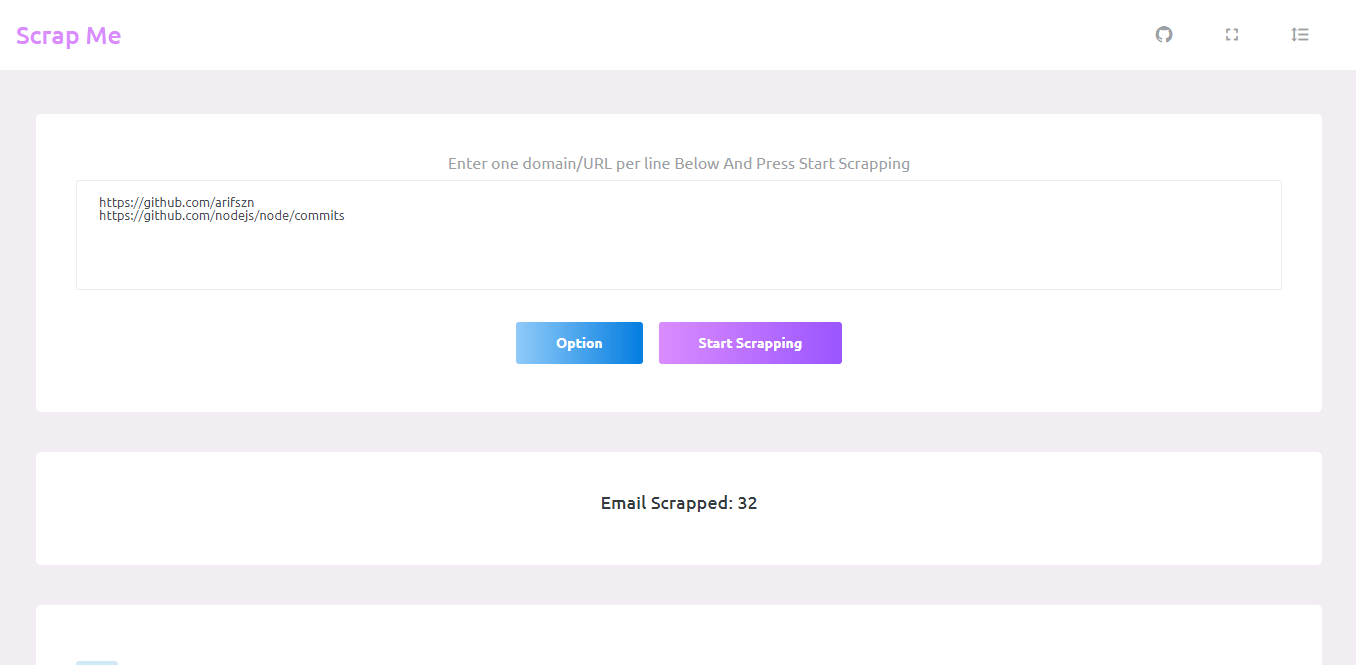
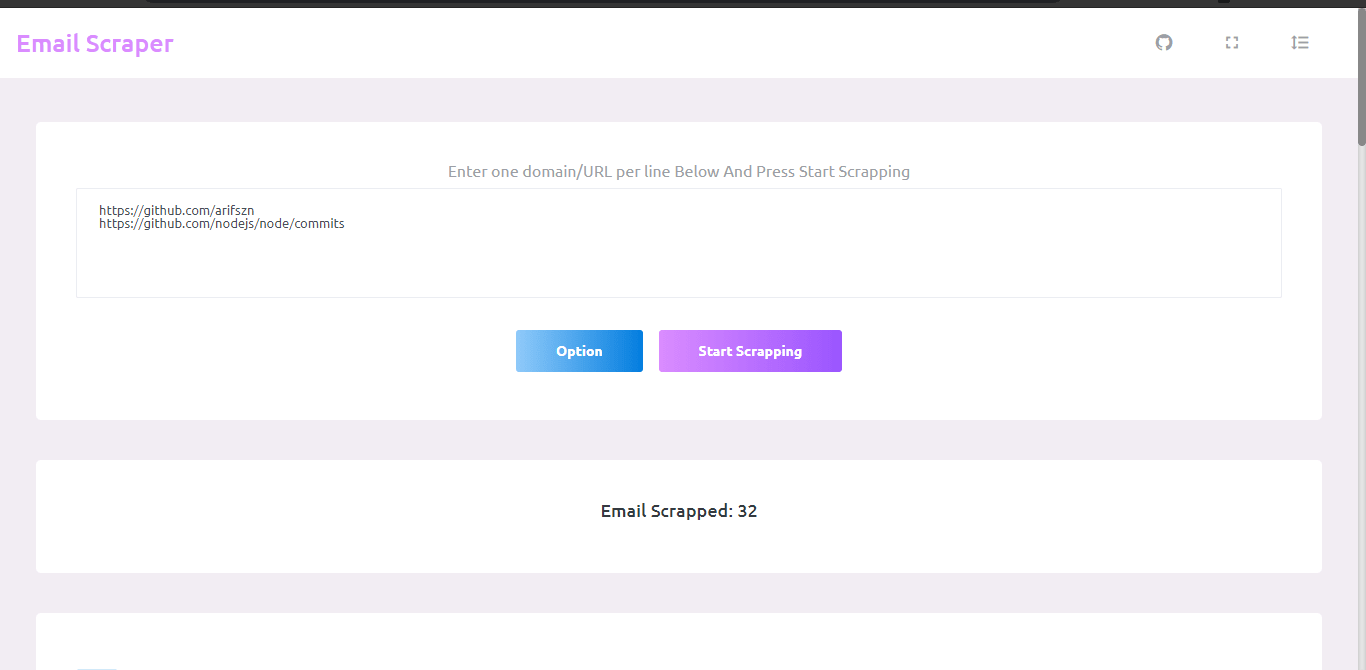
title updated

diff --git a/client/build/static/js/main.a49d2f99.chunk.js b/client/build/static/js/main.a49d2f99.chunk.js
@@ -1,0 +1,2 @@
+(this.webpackJsonpclient=this.webpackJsonpclient||[]).push([[0],{106:function(e,a,t){"use strict";t.r(a);var n=t(0),l=t.n(n),c=t(7),r=t.n(c),s=t(16),m=t(4),o=(t(69),t(37)),i=t.n(o),d=t(56),u=t(15),p=(t(42),function(){return l.a.createElement(l.a.Fragment,null,l.a.createElement("nav",{className:"navbar default-layout-navbar col-lg-12 col-12 p-0 fixed-top d-flex flex-row"},l.a.createElement("div",{className:"text-center navbar-brand-wrapper d-flex align-items-center justify-content-center"},l.a.createElement(s.b,{className:"navbar-brand brand-logo",to:"/"},l.a.createElement("h3",null,"Email scraper")),l.a.createElement(s.b,{className:"navbar-brand",to:"/"},l.a.createElement("h3",{className:"px-3 my-auto"},"Email Scraper"))),l.a.createElement("div",{className:"navbar-menu-wrapper d-flex align-items-stretch"},l.a.createElement("ul",{className:"navbar-nav navbar-nav-right"},l.a.createElement("li",{className:"nav-item "},l.a.createElement("a",{className:"nav-link",href:"https://github.com/arifszn/email-scraper",target:"_blank"},l.a.createElement("i",{className:"mdi mdi-github-circle"}))),l.a.createElement("li",{className:"nav-item full-screen-link"},l.a.createElement("a",{className:"nav-link"},l.a.createElement("i",{className:"mdi mdi-fullscreen",id:"fullscreen-button"}))),l.a.createElement("li",{className:"nav-item "},l.a.createElement("a",{className:"nav-link",href:"#"},l.a.createElement("i",{className:"mdi mdi-format-line-spacing"})))))))}),E=t(58),h=t.n(E),g={serverURL:window.location.origin,showNotification:function(){var e=arguments.length>0&&void 0!==arguments[0]?arguments[0]:"Something went wrong",a=arguments.length>1&&void 0!==arguments[1]?arguments[1]:"error";h.a.show({title:"",message:e,messageSize:12,position:"topRight",theme:"dark",pauseOnHover:!0,timeout:5e3,progressBarColor:"success"===a?"#00ffb8":"#ffafb4",color:"#565c70",messageColor:"success"===a?"#00ffb8":"#ffafb4",icon:"success"===a?"mdi mdi-check":"mdi mdi-alert-circle-outline"})},textEllipsis:function(e,a){var t=arguments.length>2&&void 0!==arguments[2]?arguments[2]:"...";return null==a&&(a=100),e.length>a?e.substring(0,a-t.length)+t:e}},v=t(59),f=t.n(v),b=t(60),N=t(40),w=t(61),x=t.n(w),y=t(17),S=t(28),k=function(e){return Object(n.useEffect)((function(){}),[]),l.a.createElement(l.a.Fragment,null,l.a.createElement(S.a,{show:!0,onHide:e.handleClose},l.a.createElement(S.a.Header,{closeButton:!0},l.a.createElement(S.a.Title,null,"Search Options")),l.a.createElement(S.a.Body,null,l.a.createElement("div",{className:"col-md-12 grid-margin"},l.a.createElement("div",{className:"card"},l.a.createElement("div",{className:"mx-0 row"},l.a.createElement("div",{className:"col-md-12"},l.a.createElement("div",{className:"form-group",style:{marginBottom:"1rem"}},l.a.createElement("div",{className:"form-check"},l.a.createElement("label",{className:"form-check-label"},l.a.createElement("input",{type:"checkbox",className:"form-check-input",checked:e.options.processRootUrlOnly,onClick:function(a){var t=!e.options.processRootUrlOnly;e.setOptions(Object(y.a)(Object(y.a)({},e.options),{},{processRootUrlOnly:t})),localStorage.setItem("processRootUrlOnly",t)}})," Process Root Url Only ",l.a.createElement("i",{className:"input-helper"})," ",l.a.createElement("small",{className:"text-muted"},"| ",e.options.processRootUrlOnly?"www.example.com":"www.example.com/xyz"," |"))))))),l.a.createElement("div",{className:"card mt-2"},l.a.createElement("div",{className:"mx-0 row"},l.a.createElement("div",{className:"col-md-12"},l.a.createElement("div",{className:"form-group",style:{marginBottom:"1rem"}},l.a.createElement("div",{className:"form-check"},l.a.createElement("label",{class:"form-check-label"},l.a.createElement("input",{type:"radio",class:"form-check-input",checked:"deep"===e.options.searchStrength,name:"searchStrength",value:"deep",onClick:function(a){e.setOptions(Object(y.a)(Object(y.a)({},e.options),{},{searchStrength:a.target.value})),localStorage.setItem("searchStrength","deep")}})," Deep Search ",l.a.createElement("i",{class:"input-helper"}))),l.a.createElement("div",{className:"form-check"},l.a.createElement("label",{class:"form-check-label"},l.a.createElement("input",{type:"radio",class:"form-check-input",checked:"quick"===e.options.searchStrength,name:"searchStrength",value:"quick",onClick:function(a){e.setOptions(Object(y.a)(Object(y.a)({},e.options),{},{searchStrength:a.target.value})),localStorage.setItem("searchStrength","quick")}})," Quick Search ",l.a.createElement("i",{class:"input-helper"})))))))))))},O=t(63),j=t(62),R=function(e){var a=Object(n.useState)(""),t=Object(u.a)(a,2),c=t[0],r=t[1],s=Object(n.useState)(""),m=Object(u.a)(s,2),o=(m[0],m[1]),E=Object(n.useState)(!1),h=Object(u.a)(E,2),v=h[0],w=h[1],y=Object(n.useState)(!1),S=Object(u.a)(y,2),R=S[0],C=S[1],U=Object(n.useState)(!0),B=Object(u.a)(U,2),I=B[0],F=B[1],q=Object(n.useState)([]),z=Object(u.a)(q,2),A=z[0],H=z[1],T=Object(n.useState)({processRootUrlOnly:"true"===localStorage.getItem("processRootUrlOnly"),searchStrength:localStorage.getItem("searchStrength")?localStorage.getItem("searchStrength"):"deep"}),J=Object(u.a)(T,2),L=J[0],P=J[1],W=function(){C(!R)},D=function(){var e=Object(d.a)(i.a.mark((function e(){var a,t;return i.a.wrap((function(e){for(;;)switch(e.prev=e.next){case 0:if(""===c){e.next=17;break}return w(!0),e.prev=2,e.next=5,f.a.post("/api/scrap",{site:c,processRootUrlOnly:L.processRootUrlOnly,searchStrength:L.searchStrength});case 5:a=e.sent,w(!1),200!==a.data.status?g.showNotification(void 0!==typeof a.data.data.result?a.data.data.result:"Server error","error"):200===a.data.status&&(F(!1),t=[],a.data.result.forEach((function(e,a){e.emails.length&&e.emails.forEach((function(a,n){var l={email:a.replace("mailto:",""),site:e.site};t.push(l)}))})),H(t)),e.next=15;break;case 10:e.prev=10,e.t0=e.catch(2),w(!1),console.log(e.t0),g.showNotification("Server error","error");case 15:e.next=18;break;case 17:g.showNotification("Nothing to scrap","error");case 18:case"end":return e.stop()}}),e,null,[[2,10]])})));return function(){return e.apply(this,arguments)}}(),Q=function(e){var a=document.createRange();a.selectNodeContents(e);var t=window.getSelection();t.removeAllRanges(),t.addRange(a)};return l.a.createElement(l.a.Fragment,null,l.a.createElement("div",{className:"container-scroller"},l.a.createElement(p,null),l.a.createElement("div",{className:"container-fluid page-body-wrapper"},l.a.createElement("div",{className:"main-panel"},l.a.createElement("div",{className:"content-wrapper"},l.a.createElement("div",{className:"row"},l.a.createElement("div",{className:"col-md-12 grid-margin stretch-card"},l.a.createElement("div",{className:"card"},l.a.createElement(x.a,{active:v,spinner:!0,text:"Scrapping..."},l.a.createElement("div",{className:"card-body text-center"},l.a.createElement("div",{className:"forms-sample"},l.a.createElement("label",{className:"text-muted"},"Enter one domain/URL per line Below And Press Start Scrapping"),l.a.createElement("div",{className:"form-group"},l.a.createElement("textarea",{id:"site",name:"site",onChange:function(e){r(e.target.value)},value:c,className:"form-control",placeholder:"example.com \nexample.com \nexample.com",rows:"6"})),l.a.createElement("button",{type:"button",disabled:v,className:"btn btn-gradient-info m-2",onClick:function(){W()}},"Option"),l.a.createElement("button",{type:"button",disabled:v,className:"btn btn-gradient-primary m-2",onClick:D},"Start Scrapping",v?"...":"")))))),l.a.createElement(N.If,{condition:!I},l.a.createElement(l.a.Fragment,null,l.a.createElement("div",{className:"col-md-12 grid-margin stretch-card"},l.a.createElement("div",{className:"card"},l.a.createElement("div",{className:"card-body text-center"},l.a.createElement("h4",{className:"card-title"},"Email Scrapped: ",A.length)))),l.a.createElement("div",{className:"col-md-12 grid-margin stretch-card"},l.a.createElement("div",{className:"card"},l.a.createElement("div",{className:"card-body"},l.a.createElement("div",{className:"pt-3 pb-3"},l.a.createElement("div",{className:"d-flex flex-column flex-md-row justify-content-md-between"},l.a.createElement("div",{className:"d-flex flex-row"},l.a.createElement(O.a,{placement:"top",overlay:l.a.createElement(j.a,null,"Copy All")},l.a.createElement("button",{disabled:!A.length,id:"copy-all-button",className:"btn btn-inverse-info btn-icon",onClick:function(){return function(){var e=document.querySelector("#scrapped-email-table");Q(e),document.execCommand("copy")}()}},l.a.createElement("i",{className:"mdi mdi-content-copy"})))))),l.a.createElement("div",{className:"table-responsive"},l.a.createElement("table",{id:"scrapped-email-table",className:"table table-striped scrapped-email-table"},l.a.createElement("thead",null,l.a.createElement("tr",null,l.a.createElement("th",null," # "),l.a.createElement("th",null," Email "),l.a.createElement("th",null," Site "),l.a.createElement("th",{style:{width:"160px"}}," "))),l.a.createElement("tbody",null,A.length?A.map((function(e,a){return l.a.createElement(l.a.Fragment,{key:a},l.a.createElement("tr",null,l.a.createElement("td",null," ",a+1," "),l.a.createElement("td",null,l.a.createElement("code",null,g.textEllipsis(e.email,100))," "),l.a.createElement("td",null," ",g.textEllipsis(e.site,100)," "),l.a.createElement("td",null,l.a.createElement(b.CopyToClipboard,{text:e.email,onCopy:function(){return a=e.email,void o(a);var a}},l.a.createElement("button",{className:"btn btn-rounded btn-icon btn-success"},l.a.createElement("i",{className:"mdi mdi-content-paste"}))))))})):l.a.createElement("tr",null,l.a.createElement("td",{colSpan:4,className:"text-center text-muted"},"No Email Found"))))))))))))))),l.a.createElement(N.If,{condition:R},l.a.createElement(k,{handleClose:W,options:L,setOptions:P})))},C=function(){return l.a.createElement(l.a.Fragment,null,l.a.createElement("div",{className:"container-scroller"},l.a.createElement("div",{className:"container-fluid page-body-wrapper full-page-wrapper"},l.a.createElement("div",{className:"content-wrapper d-flex align-items-center text-center error-page bg-primary"},l.a.createElement("div",{className:"row flex-grow"},l.a.createElement("div",{className:"col-lg-7 mx-auto text-white"},l.a.createElement("div",{className:"row align-items-center d-flex flex-row"},l.a.createElement("div",{className:"col-lg-6 text-lg-right pr-lg-4"},l.a.createElement("h1",{className:"display-1 mb-0"},"404")),l.a.createElement("div",{className:"col-lg-6 error-page-divider text-lg-left pl-lg-4"},l.a.createElement("h2",null,"SORRY!"),l.a.createElement("h3",{className:"font-weight-light"},"The page you\u2019re looking for was not found."))),l.a.createElement("div",{className:"row mt-5"},l.a.createElement("div",{className:"col-12 text-center mt-xl-2"},l.a.createElement(s.b,{className:"text-white font-weight-medium",to:"/"},"Back to home")))))))))};var U=function(){return l.a.createElement(s.a,null,l.a.createElement(m.c,null,l.a.createElement(m.a,{exact:!0,path:"/",component:R}),l.a.createElement(m.a,{component:C})))};Boolean("localhost"===window.location.hostname||"[::1]"===window.location.hostname||window.location.hostname.match(/^127(?:\.(?:25[0-5]|2[0-4][0-9]|[01]?[0-9][0-9]?)){3}$/));r.a.render(l.a.createElement(l.a.Fragment,null,l.a.createElement(U,null)),document.getElementById("root")),"serviceWorker"in navigator&&navigator.serviceWorker.ready.then((function(e){e.unregister()})).catch((function(e){console.error(e.message)}))},64:function(e,a,t){e.exports=t(106)},69:function(e,a,t){}},[[64,1,2]]]);
+//# sourceMappingURL=main.a49d2f99.chunk.js.map

diff --git a/client/build/index.html b/client/build/index.html
@@ -1,1 +1,1 @@
-<!doctype html><html lang="en"><head><meta charset="utf-8"/><link rel="icon" href="/favicon.ico"/><meta name="viewport" content="width=device-width,initial-scale=1"/><meta name="description" content="Scarp Me"/><link rel="apple-touch-icon" href="./logo.png"/><link rel="manifest" href="/manifest.json"/><link rel="stylesheet" href="/assets/vendors/mdi/css/materialdesignicons.min.css"><link rel="stylesheet" href="/assets/vendors/css/vendor.bundle.base.css"><link rel="stylesheet" href="/assets/css/style.css"><title>Scarp Me</title><link href="/static/css/2.3513b61d.chunk.css" rel="stylesheet"><link href="/static/css/main.30480664.chunk.css" rel="stylesheet"></head><body class="sidebar-icon-only"><noscript>You need to enable JavaScript to run this app.</noscript><div id="root"></div><script src="/assets/vendors/js/vendor.bundle.base.js"></script><script src="/assets/vendors/chart.js/Chart.min.js"></script><script src="/assets/js/off-canvas.js"></script><script src="/assets/js/hoverable-collapse.js"></script><script src="/assets/js/misc.js"></script><script>!function(e){function t(t){for(var n,l,i=t[0],f=t[1],a=t[2],p=0,s=[];p<i.length;p++)l=i[p],Object.prototype.hasOwnProperty.call(o,l)&&o[l]&&s.push(o[l][0]),o[l]=0;for(n in f)Object.prototype.hasOwnProperty.call(f,n)&&(e[n]=f[n]);for(c&&c(t);s.length;)s.shift()();return u.push.apply(u,a||[]),r()}function r(){for(var e,t=0;t<u.length;t++){for(var r=u[t],n=!0,i=1;i<r.length;i++){var f=r[i];0!==o[f]&&(n=!1)}n&&(u.splice(t--,1),e=l(l.s=r[0]))}return e}var n={},o={1:0},u=[];function l(t){if(n[t])return n[t].exports;var r=n[t]={i:t,l:!1,exports:{}};return e[t].call(r.exports,r,r.exports,l),r.l=!0,r.exports}l.m=e,l.c=n,l.d=function(e,t,r){l.o(e,t)||Object.defineProperty(e,t,{enumerable:!0,get:r})},l.r=function(e){"undefined"!=typeof Symbol&&Symbol.toStringTag&&Object.defineProperty(e,Symbol.toStringTag,{value:"Module"}),Object.defineProperty(e,"__esModule",{value:!0})},l.t=function(e,t){if(1&t&&(e=l(e)),8&t)return e;if(4&t&&"object"==typeof e&&e&&e.__esModule)return e;var r=Object.create(null);if(l.r(r),Object.defineProperty(r,"default",{enumerable:!0,value:e}),2&t&&"string"!=typeof e)for(var n in e)l.d(r,n,function(t){return e[t]}.bind(null,n));return r},l.n=function(e){var t=e&&e.__esModule?function(){return e.default}:function(){return e};return l.d(t,"a",t),t},l.o=function(e,t){return Object.prototype.hasOwnProperty.call(e,t)},l.p="/";var i=this.webpackJsonpclient=this.webpackJsonpclient||[],f=i.push.bind(i);i.push=t,i=i.slice();for(var a=0;a<i.length;a++)t(i[a]);var c=f;r()}([])</script><script src="/static/js/2.1a3c4498.chunk.js"></script><script src="/static/js/main.ac60e375.chunk.js"></script></body></html>
+<!doctype html><html lang="en"><head><meta charset="utf-8"/><link rel="icon" href="/favicon.ico"/><meta name="viewport" content="width=device-width,initial-scale=1"/><meta name="description" content="Email scraper"/><link rel="apple-touch-icon" href="./logo.png"/><link rel="manifest" href="/manifest.json"/><link rel="stylesheet" href="/assets/vendors/mdi/css/materialdesignicons.min.css"><link rel="stylesheet" href="/assets/vendors/css/vendor.bundle.base.css"><link rel="stylesheet" href="/assets/css/style.css"><title>Email Scraper</title><link href="/static/css/2.3513b61d.chunk.css" rel="stylesheet"><link href="/static/css/main.30480664.chunk.css" rel="stylesheet"></head><body class="sidebar-icon-only"><noscript>You need to enable JavaScript to run this app.</noscript><div id="root"></div><script src="/assets/vendors/js/vendor.bundle.base.js"></script><script src="/assets/vendors/chart.js/Chart.min.js"></script><script src="/assets/js/off-canvas.js"></script><script src="/assets/js/hoverable-collapse.js"></script><script src="/assets/js/misc.js"></script><script>!function(e){function t(t){for(var n,l,i=t[0],f=t[1],a=t[2],p=0,s=[];p<i.length;p++)l=i[p],Object.prototype.hasOwnProperty.call(o,l)&&o[l]&&s.push(o[l][0]),o[l]=0;for(n in f)Object.prototype.hasOwnProperty.call(f,n)&&(e[n]=f[n]);for(c&&c(t);s.length;)s.shift()();return u.push.apply(u,a||[]),r()}function r(){for(var e,t=0;t<u.length;t++){for(var r=u[t],n=!0,i=1;i<r.length;i++){var f=r[i];0!==o[f]&&(n=!1)}n&&(u.splice(t--,1),e=l(l.s=r[0]))}return e}var n={},o={1:0},u=[];function l(t){if(n[t])return n[t].exports;var r=n[t]={i:t,l:!1,exports:{}};return e[t].call(r.exports,r,r.exports,l),r.l=!0,r.exports}l.m=e,l.c=n,l.d=function(e,t,r){l.o(e,t)||Object.defineProperty(e,t,{enumerable:!0,get:r})},l.r=function(e){"undefined"!=typeof Symbol&&Symbol.toStringTag&&Object.defineProperty(e,Symbol.toStringTag,{value:"Module"}),Object.defineProperty(e,"__esModule",{value:!0})},l.t=function(e,t){if(1&t&&(e=l(e)),8&t)return e;if(4&t&&"object"==typeof e&&e&&e.__esModule)return e;var r=Object.create(null);if(l.r(r),Object.defineProperty(r,"default",{enumerable:!0,value:e}),2&t&&"string"!=typeof e)for(var n in e)l.d(r,n,function(t){return e[t]}.bind(null,n));return r},l.n=function(e){var t=e&&e.__esModule?function(){return e.default}:function(){return e};return l.d(t,"a",t),t},l.o=function(e,t){return Object.prototype.hasOwnProperty.call(e,t)},l.p="/";var i=this.webpackJsonpclient=this.webpackJsonpclient||[],f=i.push.bind(i);i.push=t,i=i.slice();for(var a=0;a<i.length;a++)t(i[a]);var c=f;r()}([])</script><script src="/static/js/2.1a3c4498.chunk.js"></script><script src="/static/js/main.a49d2f99.chunk.js"></script></body></html>

diff --git a/client/src/components/layouts/Navbar.js b/client/src/components/layouts/Navbar.js
@@ -8,17 +8,17 @@ const Navbar = () => {
             <nav className="navbar default-layout-navbar col-lg-12 col-12 p-0 fixed-top d-flex flex-row">
                 <div className="text-center navbar-brand-wrapper d-flex align-items-center justify-content-center">
                     <Link className="navbar-brand brand-logo" to="/">
-                        <h3>Scrap Me</h3>
+                        <h3>Email scraper</h3>
                     </Link>
                     <Link className="navbar-brand" to="/">
-                        <h3 className="px-3 my-auto">Scrap Me</h3>
+                        <h3 className="px-3 my-auto">Email Scraper</h3>
                     </Link>
                 </div>
                 <div className="navbar-menu-wrapper d-flex align-items-stretch">
                     <ul className="navbar-nav navbar-nav-right">
                         <li className="nav-item ">
                             {/* eslint-disable-next-line */}
-                            <a className="nav-link" href="https://github.com/arifszn/scrap-me" target="_blank">
+                            <a className="nav-link" href="https://github.com/arifszn/email-scraper" target="_blank">
                                 <i className="mdi mdi-github-circle"></i>
                             </a>
                         </li>

diff --git a/client/build/precache-manifest.0b359c28c70327a4bf95dad13f28543c.js b/client/build/precache-manifest.0b359c28c70327a4bf95dad13f28543c.js
@@ -1,6 +1,6 @@
 self.__precacheManifest = (self.__precacheManifest || []).concat([
   {
-    "revision": "8bf6c7c14803263e462afe0cadf801b1",
+    "revision": "6f9a42ec3b3d32ebbfe247a418fa4ab3",
     "url": "/index.html"
   },
   {
@@ -8,7 +8,7 @@ self.__precacheManifest = (self.__precacheManifest || []).concat([
     "url": "/static/css/2.3513b61d.chunk.css"
   },
   {
-    "revision": "4af72f9defe7c20bdfa3",
+    "revision": "783086de1b6c6342e1f9",
     "url": "/static/css/main.30480664.chunk.css"
   },
   {
@@ -20,8 +20,8 @@ self.__precacheManifest = (self.__precacheManifest || []).concat([
     "url": "/static/js/2.1a3c4498.chunk.js.LICENSE.txt"
   },
   {
-    "revision": "4af72f9defe7c20bdfa3",
-    "url": "/static/js/main.ac60e375.chunk.js"
+    "revision": "783086de1b6c6342e1f9",
+    "url": "/static/js/main.a49d2f99.chunk.js"
   },
   {
     "revision": "9b4e396c183e42c1fa5c",

diff --git a/client/public/index.html b/client/public/index.html
@@ -4,7 +4,7 @@
     <meta charset="utf-8" />
     <link rel="icon" href="%PUBLIC_URL%/favicon.ico" />
     <meta name="viewport" content="width=device-width, initial-scale=1" />
-    <meta name="description" content="Scarp Me" />
+    <meta name="description" content="Email scraper" />
     <link rel="apple-touch-icon" href="./logo.png" />
     <link rel="manifest" href="%PUBLIC_URL%/manifest.json" />
     <link rel="stylesheet" href="%PUBLIC_URL%/assets/vendors/mdi/css/materialdesignicons.min.css">
@@ -19,7 +19,7 @@
       work correctly both with client-side routing and a non-root public URL.
       Learn how to configure a non-root public URL by running `npm run build`.
     -->
-    <title>Scarp Me</title>
+    <title>Email Scraper</title>
   </head>
   <body class="sidebar-icon-only">
     <noscript>You need to enable JavaScript to run this app.</noscript>

diff --git a/routes/index.js b/routes/index.js
@@ -6,7 +6,7 @@ router.get('/', function(req, res, next) {
         const path = require('path');
         res.sendFile(path.join(__dirname, '..', 'client', 'build', 'index.html'));
     } else {
-        res.render('home', { title: 'Scarp Me' });
+        res.render('home', { title: 'Email Scraper' });
     }
 });
 

diff --git a/client/build/service-worker.js b/client/build/service-worker.js
@@ -14,7 +14,7 @@
 importScripts("https://storage.googleapis.com/workbox-cdn/releases/4.3.1/workbox-sw.js");
 
 importScripts(
-  "/precache-manifest.3493923d8a6f69efa8d995493a4c914c.js"
+  "/precache-manifest.0b359c28c70327a4bf95dad13f28543c.js"
 );
 
 self.addEventListener('message', (event) => {

diff --git a/README.md b/README.md
@@ -1,6 +1,6 @@
-<h1 align="center">Scrap Me</h1>
-<p align="center"><a href="https://scrapme.glitch.me">https://scrapme.glitch.me</a></p>
-<p align="center">An email parser made with Node and React.</p>
+<h1 align="center">Email Scraper</h1>
+<p align="center"><a href="https://emailscraper.glitch.me">https://emailscraper.glitch.me</a></p>
+<p align="center">An email scraper made with Node and React.</p>
 <p align="center">
     <a href="https://nodejs.org"><img src="https://img.shields.io/badge/node-12.18.4-success" alt="node 12.18.4"></a>
     <a href="https://reactjs.org/"><img src="https://img.shields.io/badge/react-16.13.1-blue" alt="react 16.13.1"></a>
@@ -9,7 +9,7 @@
 </p>
 
 ## Site
-[https://scrapme.glitch.me](https://scrapme.glitch.me)
+[https://emailscraper.glitch.me](https://emailscraper.glitch.me)
 
 ## Screenshots
 ![alt text](https://raw.githubusercontent.com/arifszn/scrap-me/master/client/public/assets/images/Screenshot1.png)
